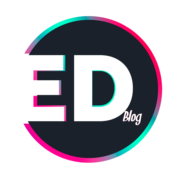
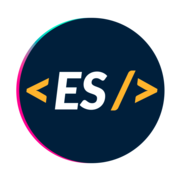
Rebranding first changes

diff --git a/gatsby-config.js b/gatsby-config.js
@@ -1,7 +1,7 @@
 module.exports = {
     siteMetadata: {
-        url: 'http://enmanuelduran.com',
-        title: 'Enmanuel Durán Blog',
+        url: 'http://enmascript.com',
+        title: 'EnmaScript',
         author: 'Enmanuel Durán',
         twitter: 'https://twitter.com/duranenmanuel',
         series: 'none',
@@ -70,8 +70,8 @@ module.exports = {
         {
             resolve: `gatsby-plugin-manifest`,
             options: {
-                name: 'Enmanuel Duran Blog',
-                short_name: 'Enmanuel Blog',
+                name: 'EnmaScript',
+                short_name: 'EnmaScript',
                 start_url: '/',
                 background_color: '#FFFFFF',
                 theme_color: '#FFFFFF',

diff --git a/src/pages/index.js b/src/pages/index.js
@@ -1,11 +1,10 @@
 import React from 'react';
-import Layout from '../components/layout';
+import Layout from 'components/layout';
 import Container from 'components/Container';
 import { graphql, Link } from 'gatsby';
 import Cover from 'components/Cover';
 import ArticleCard from 'components/ArticleCard';
 import CoverImage from 'images/cover.jpeg';
-import 'index.scss';
 
 const Index = ({ data }) => {
     const { edges: posts } = data.homeData;

diff --git a/src/components/Footer/Footer.js b/src/components/Footer/Footer.js
@@ -1,11 +1,9 @@
 import React from 'react';
-import './Footer.scss';
-
 
 const Footer = () => (
     <footer className="footer">
         <p>
-            © Copyright Enmanuel Durán 2017-2018. All code based on the
+            © Copyright EnmaScript 2017-2018. All code based on the
             <a href="http://opensource.org/licenses/MIT"> MIT license</a>.
         </p>
     </footer>

diff --git a/src/pages/series.js b/src/pages/series.js
@@ -1,10 +1,9 @@
 import React from 'react';
-import Layout from '../components/layout';
+import Layout from 'components/layout';
 import Helmet from 'react-helmet';
 import Container from 'components/Container';
 import { graphql, Link } from 'gatsby';
 import shortid from 'shortid';
-import './series.scss';
 
 const Series = ({ data }) => (
     <Layout section="series">

diff --git a/src/components/layout.js b/src/components/layout.js
@@ -7,7 +7,7 @@ import Footer from 'components/Footer/Footer';
 import Favicon16 from 'images/favicon-16x16.png';
 import Favicon32 from 'images/favicon-32x32.png';
 import AppleTouchIcon from 'images/apple-touch-icon.png';
-import './Common/global.scss';
+import './styles.scss';
 
 const Layout = ({ children, section, classes }) => {
     return (

diff --git a/src/templates/articles.js b/src/templates/articles.js
@@ -4,7 +4,6 @@ import Container from 'components/Container/Container';
 import Layout from 'components/layout';
 import { graphql } from 'gatsby';
 import { Twitter, Facebook, LinkedIn } from 'components/Icons/SocialIcons';
-import './articles.scss';
 
 const ArticleTemplate = ({ data }) => {
     const post = data.article;

diff --git a/src/templates/series.js b/src/templates/series.js
@@ -3,7 +3,6 @@ import Container from 'components/Container';
 import Layout from 'components/layout';
 import { graphql } from 'gatsby';
 import ArticleCard from 'components/ArticleCard';
-import './articles.scss';
 
 const SeriesArticlesTemplate = ({ data }) => {
     const { edges: posts } = data.allMarkdownRemark;

diff --git a/src/pages/articles.js b/src/pages/articles.js
@@ -4,7 +4,6 @@ import Helmet from 'react-helmet';
 import Layout from 'components/layout';
 import Container from 'components/Container';
 import ArticleCard from 'components/ArticleCard';
-import './articles.scss';
 
 const Articles = ({ data }) => {
     const { edges: posts } = data.allMarkdownRemark;

diff --git a/src/pages/about-me.js b/src/pages/about-me.js
@@ -4,7 +4,6 @@ import Helmet from 'react-helmet';
 import Container from 'components/Container';
 import About from '../../content/about-me.json';
 import shortid from 'shortid';
-import './about-me.scss';
 
 const AboutMe = () => (
     <Layout section="aboutme">

diff --git a/src/components/Container/Container.js b/src/components/Container/Container.js
@@ -1,6 +1,5 @@
 import React from 'react';
 import PropTypes from 'prop-types';
-import './Container.scss';
 
 const Container = ({ type, children, classes }) => (
     <div className={`container container--${type} ${classes}`}>{children}</div>

diff --git a/src/components/Header/Header.js b/src/components/Header/Header.js
@@ -3,7 +3,6 @@ import { Link } from 'gatsby';
 import PropTypes from 'prop-types';
 import Container from 'components/Container/Container';
 import Logo from './logo.png';
-import './Header.scss';
 
 const ACTIVE_CLASS = 'link--active';
 

diff --git a/src/components/ArticleCard/ArticleCard.js b/src/components/ArticleCard/ArticleCard.js
@@ -1,7 +1,6 @@
 import React from 'react';
 import { Link } from 'gatsby';
 import PropTypes from 'prop-types';
-import './ArticleCard.scss';
 
 const ArticleCard = ({ image, title, slug }) => (
     <div className="article-card">
